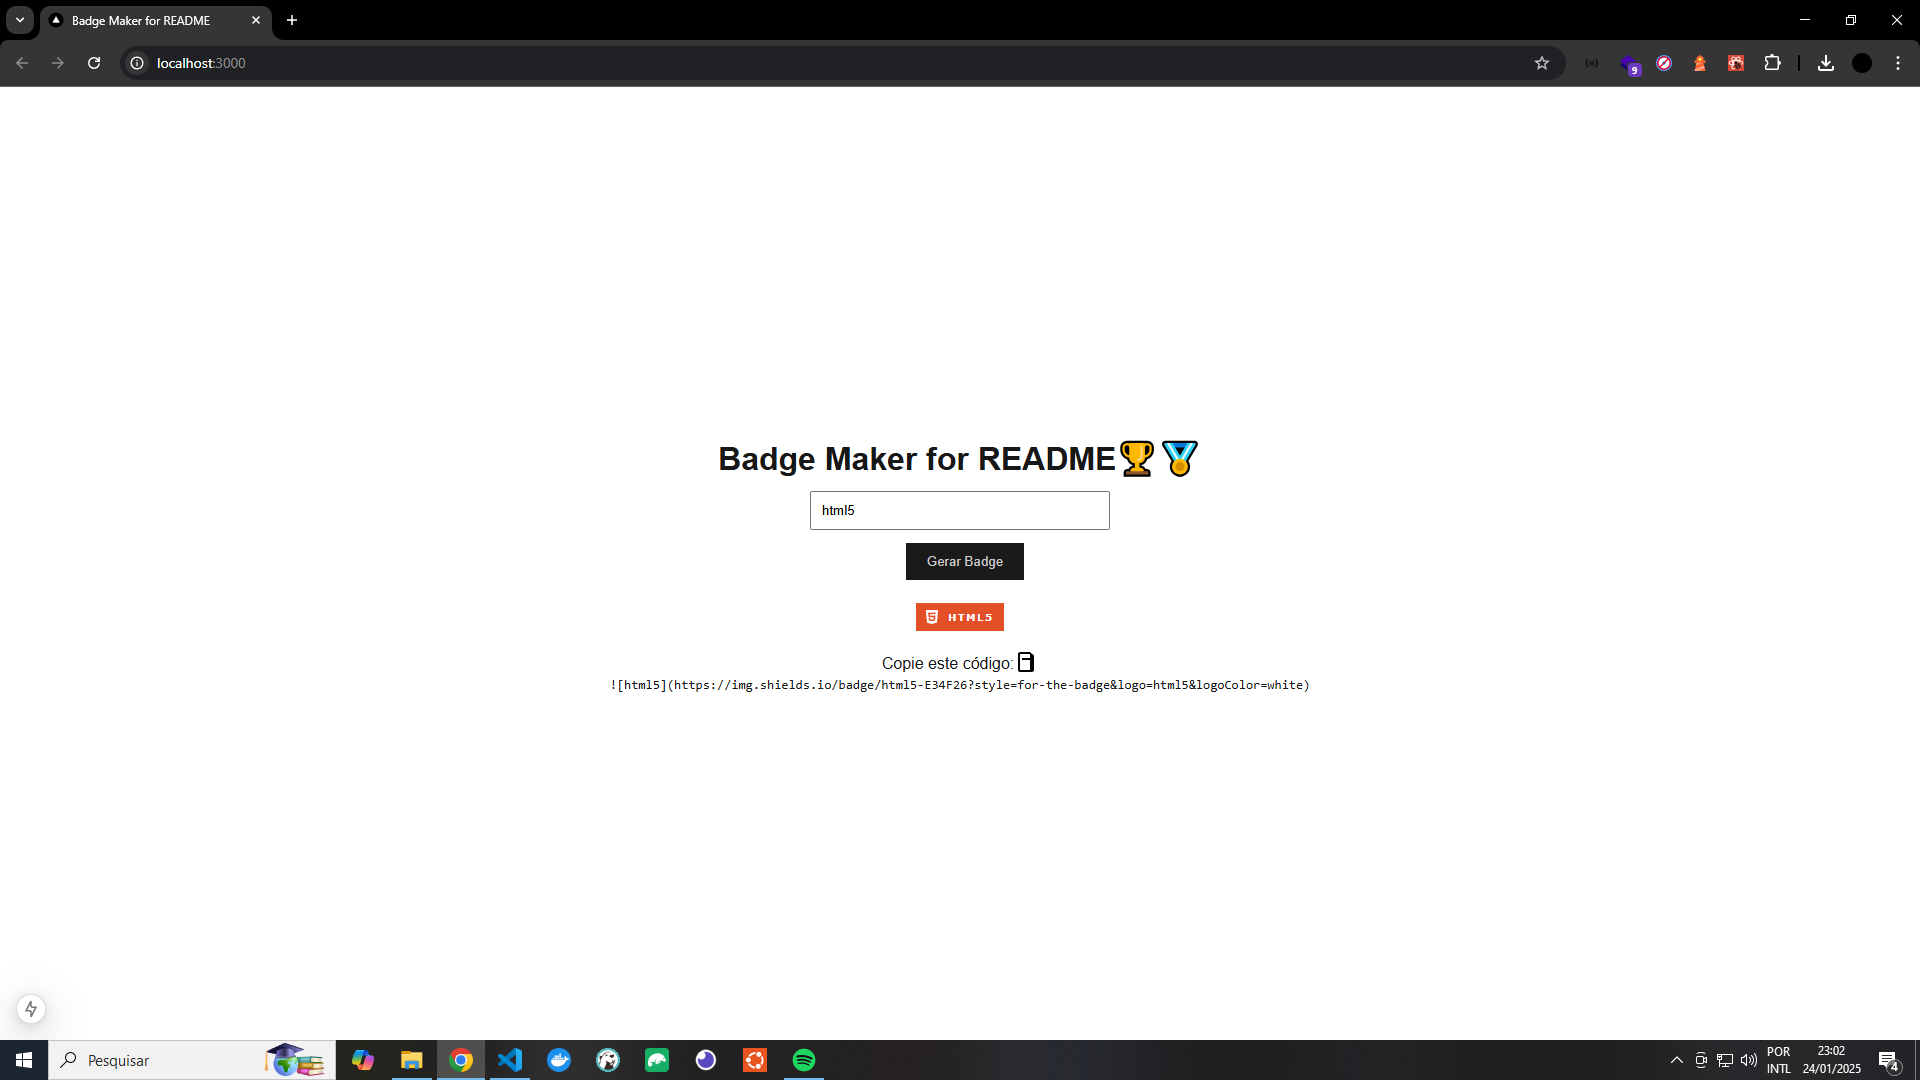
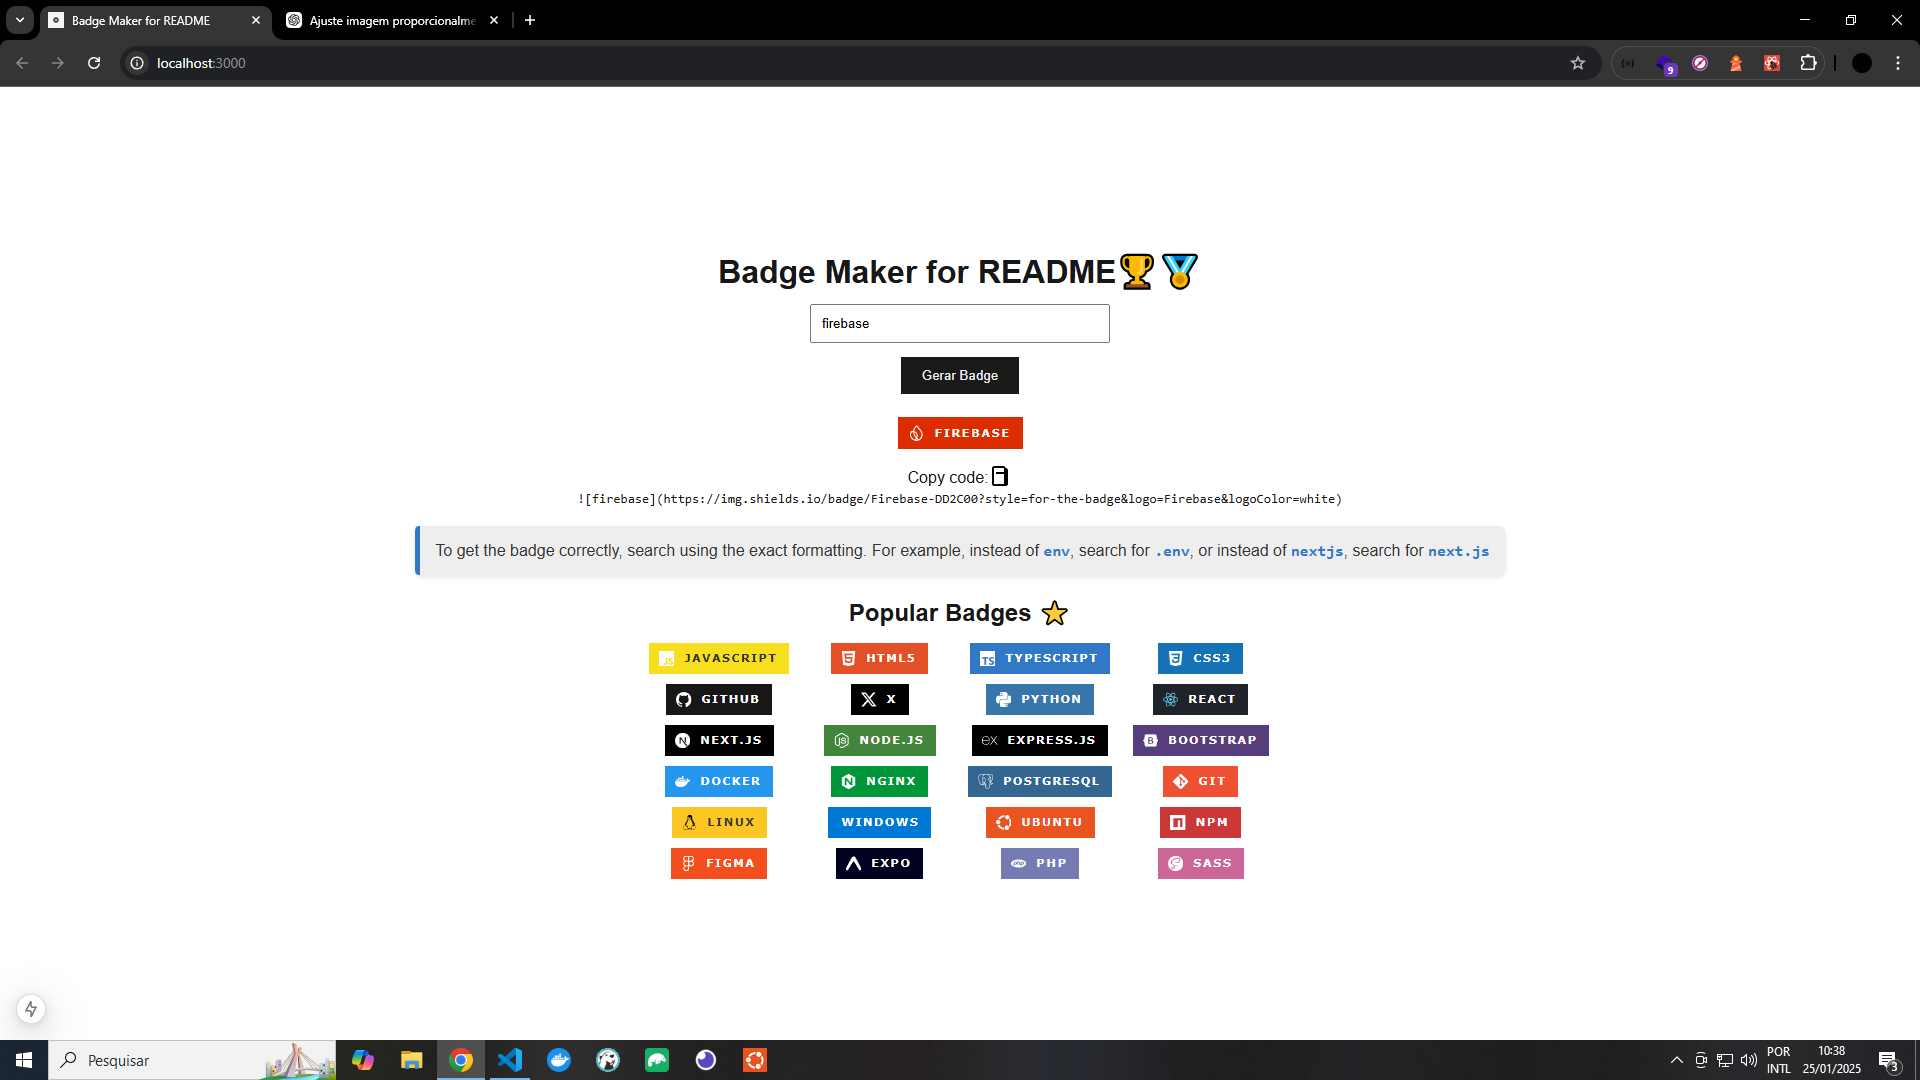
feat: add popular badges

diff --git a/src/app/page.tsx b/src/app/page.tsx
@@ -8,7 +8,106 @@ const routePath = process.env.NODE_ENV === "development" ? '/' : '/badge-generat
 
 export default function Home() {
   const [tool, setTool] = useState("");
-  const [badgeUrl, setBadgeUrl] = useState(""); 
+  const [badgeUrl, setBadgeUrl] = useState("");
+
+  const popularBadges = [
+    {
+      url: '![js](https://img.shields.io/badge/JavaScript-F7DF1E?style=for-the-badge&logo=JavaScript&logoColor=white)',
+      preview: 'https://img.shields.io/badge/JavaScript-F7DF1E?style=for-the-badge&logo=JavaScript&logoColor=white'
+    },
+    {
+      url: '![html5](https://img.shields.io/badge/HTML5-E34F26?style=for-the-badge&logo=HTML5&logoColor=white)',
+      preview: 'https://img.shields.io/badge/HTML5-E34F26?style=for-the-badge&logo=HTML5&logoColor=white'
+    },
+    {
+      url: '![ts](https://img.shields.io/badge/TypeScript-3178C6?style=for-the-badge&logo=TypeScript&logoColor=white)',
+      preview: 'https://img.shields.io/badge/TypeScript-3178C6?style=for-the-badge&logo=TypeScript&logoColor=white'
+    },
+    {
+      url: '![css3](https://img.shields.io/badge/CSS3-1572B6?style=for-the-badge&logo=CSS3&logoColor=white)',
+      preview: 'https://img.shields.io/badge/CSS3-1572B6?style=for-the-badge&logo=CSS3&logoColor=white'
+    },
+    {
+      url: '![github](https://img.shields.io/badge/GitHub-181717?style=for-the-badge&logo=GitHub&logoColor=white)',
+      preview: 'https://img.shields.io/badge/GitHub-181717?style=for-the-badge&logo=GitHub&logoColor=white'
+    },
+    {
+      url: '![x](https://img.shields.io/badge/X-000000?style=for-the-badge&logo=X&logoColor=white)',
+      preview: 'https://img.shields.io/badge/X-000000?style=for-the-badge&logo=X&logoColor=white'
+    },
+    {
+      url: '![Python](https://img.shields.io/badge/Python-3776AB?style=for-the-badge&logo=python&logoColor=white)',
+      preview: 'https://img.shields.io/badge/Python-3776AB?style=for-the-badge&logo=python&logoColor=white'
+    },
+    {
+      url: '![React Native](https://img.shields.io/badge/React Native-20232A?style=for-the-badge&logo=react&logoColor=61DAFB)',
+      preview: 'https://img.shields.io/badge/React Native-20232A?style=for-the-badge&logo=react&logoColor=61DAFB'
+    },
+    {
+      url: '![Next.js](https://img.shields.io/badge/Next.js-000000?style=for-the-badge&logo=next.js&logoColor=white)',
+      preview: 'https://img.shields.io/badge/Next.js-000000?style=for-the-badge&logo=next.js&logoColor=white'
+    },
+    {
+      url: '![Node.js](https://img.shields.io/badge/Node.js-43853D?style=for-the-badge&logo=node.js&logoColor=white)',
+      preview: 'https://img.shields.io/badge/Node.js-43853D?style=for-the-badge&logo=node.js&logoColor=white'
+    },
+    {
+      url: '![Express.js](https://img.shields.io/badge/Express.js-000000?style=for-the-badge&logo=express&logoColor=white)',
+      preview: 'https://img.shields.io/badge/Express.js-000000?style=for-the-badge&logo=express&logoColor=white'
+    },
+    {
+      url: '![Bootstrap](https://img.shields.io/badge/Bootstrap-563D7C?style=for-the-badge&logo=bootstrap&logoColor=white)',
+      preview: 'https://img.shields.io/badge/Bootstrap-563D7C?style=for-the-badge&logo=bootstrap&logoColor=white'
+    },
+    {
+      url: '![Docker](https://img.shields.io/badge/Docker-2496ED?style=for-the-badge&logo=docker&logoColor=white)',
+      preview: 'https://img.shields.io/badge/Docker-2496ED?style=for-the-badge&logo=docker&logoColor=white'
+    },
+    {
+      url: '![nginx](https://img.shields.io/badge/NGINX-009639?style=for-the-badge&logo=NGINX&logoColor=white)',
+      preview: 'https://img.shields.io/badge/NGINX-009639?style=for-the-badge&logo=NGINX&logoColor=white'
+    },
+    {
+      url: '![PostgreSQL](https://img.shields.io/badge/PostgreSQL-336791?style=for-the-badge&logo=postgresql&logoColor=white)',
+      preview: 'https://img.shields.io/badge/PostgreSQL-336791?style=for-the-badge&logo=postgresql&logoColor=white'
+    },
+    {
+      url: '![Git](https://img.shields.io/badge/Git-F05032?style=for-the-badge&logo=git&logoColor=white)',
+      preview: 'https://img.shields.io/badge/Git-F05032?style=for-the-badge&logo=git&logoColor=white'
+    },
+    {
+      url: '![Linux](https://img.shields.io/badge/Linux-FCC624?style=for-the-badge&logo=linux&logoColor=black)',
+      preview: 'https://img.shields.io/badge/Linux-FCC624?style=for-the-badge&logo=linux&logoColor=black'
+    },
+    {
+      url: '![Windows](https://img.shields.io/badge/Windows-0078D6?style=for-the-badge&logo=windows&logoColor=white)',
+      preview: 'https://img.shields.io/badge/Windows-0078D6?style=for-the-badge&logo=windows&logoColor=white'
+    },
+    {
+      url: '![Ubuntu](https://img.shields.io/badge/Ubuntu-E95420?style=for-the-badge&logo=ubuntu&logoColor=white)',
+      preview: 'https://img.shields.io/badge/Ubuntu-E95420?style=for-the-badge&logo=ubuntu&logoColor=white'
+    },
+    {
+      url: '![npm](https://img.shields.io/badge/npm-CB3837?style=for-the-badge&logo=npm&logoColor=white)',
+      preview: 'https://img.shields.io/badge/npm-CB3837?style=for-the-badge&logo=npm&logoColor=white'
+    },
+    {
+      url: '![figma](https://img.shields.io/badge/Figma-F24E1E?style=for-the-badge&logo=Figma&logoColor=white)',
+      preview: 'https://img.shields.io/badge/Figma-F24E1E?style=for-the-badge&logo=Figma&logoColor=white'
+    },
+    {
+      url: '![expo](https://img.shields.io/badge/Expo-000020?style=for-the-badge&logo=Expo&logoColor=white)',
+      preview: 'https://img.shields.io/badge/Expo-000020?style=for-the-badge&logo=Expo&logoColor=white'
+    },
+    {
+      url: '![php](https://img.shields.io/badge/PHP-777BB4?style=for-the-badge&logo=PHP&logoColor=white)',
+      preview: 'https://img.shields.io/badge/PHP-777BB4?style=for-the-badge&logo=PHP&logoColor=white'
+    },
+    {
+      url: '![sass](https://img.shields.io/badge/Sass-CC6699?style=for-the-badge&logo=Sass&logoColor=white)',
+      preview: 'https://img.shields.io/badge/Sass-CC6699?style=for-the-badge&logo=Sass&logoColor=white'
+    }
+  ]
 
   const generateBadge = async () => {
     if (tool) {
@@ -67,8 +166,8 @@ export default function Home() {
   };  
   
   // Função para copiar o código para a área de transferência
-  const copyToClipboard = () => {
-    navigator.clipboard.writeText(`![${tool}](${badgeUrl})`);
+  const copyToClipboard = (link: string) => {
+    navigator.clipboard.writeText(link);
     alert('Copied!')
   };
 
@@ -87,18 +186,15 @@ export default function Home() {
 
       {badgeUrl && (
         <div className={styles.badgeContent}>
-          <div>
-            <Image 
-              src={badgeUrl} 
-              alt="Badge" 
-              height={200}
-              width={200}
-              layout="responsive"
-              className={styles.imgBadge}
-            />
-          </div>
-          <p>Copie este código:
-            <button onClick={copyToClipboard} title="copy">
+          <Image 
+            src={badgeUrl} 
+            alt="Badge" 
+            height={120}
+            width={120}
+            className={styles.imgBadge}
+          />
+          <p>Copy code:
+            <button onClick={() => copyToClipboard(`![${tool}](${badgeUrl})`)} title="copy">
               <svg xmlns="http://www.w3.org/2000/svg" viewBox="0 0 24 24" width="24" height="24">
                 <path d="M16 2H6C4.9 2 4 2.9 4 4v16c0 1.1.9 2 2 2h12c1.1 0 2-.9 2-2V6c0-1.1-.9-2-2-2zm0 18H6V4h10v16zM8 8h8v2H8z"/>
               </svg>
@@ -111,6 +207,23 @@ export default function Home() {
       <p className={styles.badge_message}>
         To get the badge correctly, search using the exact formatting. For example, instead of <code>env</code>, search for <code>.env</code>, or instead of <code>nextjs</code>, search for <code>next.js</code>
       </p>
+
+      <h2>Popular Badges ⭐</h2>
+      <div className={styles.badgesPopular}>
+        {
+          popularBadges.map((res: any, i) => (
+            <button key={i} onClick={() => copyToClipboard(res.url)}>
+              <Image 
+                src={res.preview} 
+                alt="Badge" 
+                height={200}
+                width={200}
+                className={styles.imgBadge}
+              />
+            </button>
+          ))
+        }
+      </div>
     </div>
   );
 }

diff --git a/src/app/page.module.css b/src/app/page.module.css
@@ -21,7 +21,6 @@
 
 .buttonGenerateBadge {
   margin-bottom: 1em;
-  margin-left: 10px;
   padding: 10px 20px;
   background-color: #1a1a1a;
   color: #eee;
@@ -42,15 +41,15 @@
   align-items: center;
 }
 
+.badgeContent .imgBadge {
+  width: 20%;
+  margin-bottom: 1em;
+}
+
 .badgeContent p {
   display: flex;
   align-items: center;
   justify-content: center;
-}
-
-.badgeContent img {
-  width: 125px;
-  margin-bottom: 15px;
 }
 
 .badgeContent button {
@@ -80,6 +79,22 @@
   color: #3178C6;
 }
 
+.badgesPopular {
+  display: grid;
+  margin-top: 1em;
+  grid-template-columns: repeat(4, 1fr);
+  gap: 10px;
+  justify-items: center;
+}
+
+.badgesPopular button {
+  outline: none;
+  margin: 0 3px;
+  border: none;
+  cursor: pointer;
+  background: none;
+}
+
 @media (prefers-color-scheme: dark) {
   .page {
     --gray-rgb: 255, 255, 255;
@@ -101,5 +116,23 @@
   .badge_message {
     background-color: #444950;
     color: #eee;
+  }
+}
+
+.imgBadge {
+  object-fit: contain; /* Isso mantém a imagem proporcional sem distorcer */
+  width: 100%; /* Garantir que a imagem ocupe todo o espaço disponível */
+  height: 100%; /* Garantir que a altura da imagem também seja proporcional */
+}
+
+@media screen and (max-width: 580px) {
+  .badgesPopular {
+    grid-template-columns: repeat(3, 1fr);
+  }
+}
+
+@media screen and (max-width: 400px) {
+  .badgesPopular {
+    grid-template-columns: repeat(2, 1fr);
   }
 }
